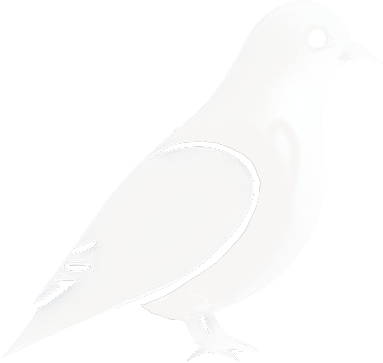
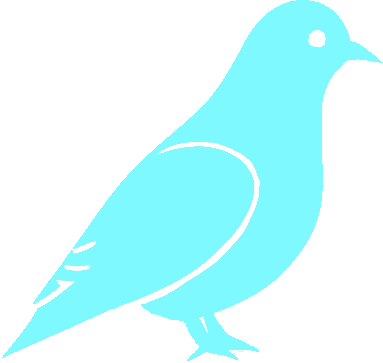
styled login page

diff --git a/PostPigeon.Client/src/components/Login.tsx b/PostPigeon.Client/src/components/Login.tsx
@@ -1,19 +1,43 @@
 import { Box, Button, Stack, TextField, Typography } from '@mui/material'
+import LockIcon from '@mui/icons-material/Lock';
+import AlternateEmailIcon from '@mui/icons-material/AlternateEmail';
 
-export default function Login() {
+const Login: React.FC = () => {
   return (
-    <Box sx={{px: 4, py: 4, borderRadius: '10px', bgcolor: '#171717'}}>
-      <form>
-        <Typography variant='h4' sx={{color: 'white', textAlign: 'center'}}>Login</Typography>
-        <Stack direction='column' spacing={2} sx={{mt: 4}}>
-          <TextField label='Name' color='info' focused/>
-          <TextField label='Password' color='info' focused/>
+    <Box sx={{px: 4, py: 4, borderRadius: '10px', bgcolor: '#171717', boxShadow: '0 15px 25px rgba(0,0,0,.6)'}}>
+      <form style={{width: '330px'}}>
+        <Typography variant='h4' sx={{color: 'white', textAlign: 'center'}}>
+          Login
+        </Typography>
+        <Typography variant='body1' sx={{color: 'gray', textAlign: 'center', mt: 1}}>
+          Please enter valid credentials
+        </Typography>
+        <Stack direction='column' spacing={2} sx={{mt: 6}}>
+          
+          <Box sx={{ display: 'flex', alignItems: 'center'}}>
+            <AlternateEmailIcon sx={{ color: 'info.main', mr: 1, my: 0.5 }} />
+            <TextField type='text' label='Name' fullWidth 
+              sx={{ label: { color: 'gray'}, input: {color: '#d3d3d3', boxShadow: 'inset 2px 5px 10px rgb(5, 5, 5)', borderRadius: '10px'}}}/>
+          </Box>
+          
+          <Box sx={{ display: 'flex', alignItems: 'center'}}>
+            <LockIcon sx={{ color: 'info.main', mr: 1, my: 0.5 }} />
+            <TextField type='password' label='Password' fullWidth 
+              sx={{ label: { color: 'gray'}, input: {color: '#d3d3d3', boxShadow: 'inset 2px 5px 10px rgb(5, 5, 5)', borderRadius: '10px'}}}/>
+          </Box>
+        
         </Stack>
-        <Box sx={{mt: 3, display:'flex', justifyContent: 'space-around', bgColor: 'white', width: '250px'}}>
-          <Button variant='contained' sx={{bgcolor: '#252525', color: 'white', px: 4}}>Log in</Button>
-          <Button variant='contained' sx={{bgcolor: '#252525', color: 'white', px: 4}}>Sign in</Button>
+        <Box sx={{mt: 6, display:'flex', justifyContent: 'space-evenly', bgColor: 'white'}}>
+          <Button variant='contained' sx={{bgcolor: 'lightgray', color: 'black', px: 6}}>
+            Log in
+          </Button>
+          <Button variant='contained' sx={{bgcolor: '#252525', color: 'white', px: 6, ml: 4}}> 
+            Sign up
+          </Button>
         </Box>
       </form>
     </Box>
   )
 }
+
+export default Login;

diff --git a/PostPigeon.Client/src/pages/LoginPage.tsx b/PostPigeon.Client/src/pages/LoginPage.tsx
@@ -1,24 +1,24 @@
 import { Box, Stack } from '@mui/material'
+import Typography from '@mui/material/Typography'
 import Login from '../components/Login'
 import loginBg from '../images/loginPageBg.png'
+import pigeonImg from '../images/pigeon.png'
 
-export default function LoginPage() {
+const LoginPage: React.FC = () => {
   return (
-      <Box
-        component='div'
-        sx={{
-          backgroundImage: `url(${loginBg})`,
-          height: '100vh',
-          backgroundRepeat: 'no-repeat',
-          backgroundSize: 'cover'}}>
-        <Stack
-          direction="row"
-          justifyContent='center'
-          alignItems='center'
-          height='100%'
-          sx={{backdropFilter: 'blur(1px)'}}>
+    <Box sx={{ background: `url(${loginBg})`, height: '100vh', backgroundRepeat: 'no-repeat', backgroundSize: 'cover' }}> 
+        <Stack direction="row" justifyContent='space-evenly' alignItems='center' height='100%' sx={{ backdropFilter: 'blur(2px)' }}>
+          
+          <Stack direction='column' spacing={3} alignItems='center'>
+            <Box component='img' src={pigeonImg} sx={{ width: '200px'}}></Box>
+            <Typography variant='h3' color='info.main'>Post Pigeon</Typography>
+            <Typography variant='subtitle1' sx={{color: 'lightgray'}}>Web chat developed on gRPC/React stack</Typography>
+          </Stack>
+          
           <Login />
+        
         </Stack>
-      </Box>
+    </Box>
   )
 }
+export default LoginPage;

diff --git a/PostPigeon.Client/src/App.tsx b/PostPigeon.Client/src/App.tsx
@@ -1,27 +1,24 @@
-import { useEffect } from 'react';
-import { ChatroomClient } from './protos/ChatroomServiceClientPb';
-import { JoinRequest } from './protos/chatroom_pb';
 import { Route, Routes } from 'react-router-dom';
+import LoginPage from './pages/LoginPage';
+import { Box } from '@mui/system';
 import '@fontsource/roboto/300.css';
 import '@fontsource/roboto/400.css';
 import '@fontsource/roboto/500.css';
 import '@fontsource/roboto/700.css';
-import LoginPage from './pages/LoginPage';
-import { Box } from '@mui/system';
 
-function App() {
+const App: React.FC  = () => {
 
-  useEffect(() => {
-    (async () => {
-      const client = new ChatroomClient("http://localhost:8080");
-      const req = new JoinRequest()
-      req.setName("Egor")
-      req.setAvatarUrl("just_url")
-      client.join(req, {}, (err, resp) => {
-        console.log(resp.toObject())
-      })
-    })();
-  }, []);
+  // useEffect(() => {
+  //   (async () => {
+  //     const client = new ChatroomClient("http://localhost:8080");
+  //     const req = new JoinRequest()
+  //     req.setName("Egor")
+  //     req.setAvatarUrl("just_url")
+  //     client.join(req, {}, (err, resp) => {
+  //       console.log(resp.toObject())
+  //     })
+  //   })();
+  // }, []);
 
   return (
     <Box>

diff --git a/PostPigeon.Client/src/Theme.tsx b/PostPigeon.Client/src/Theme.tsx
@@ -6,7 +6,7 @@ export const theme = createTheme({
         main: '#7df9ff',
       },
       secondary: {
-        main: '#F4F3F3',
+        main: '#0FCBCB',
       },
       error: {
         main: '#DB0916'
